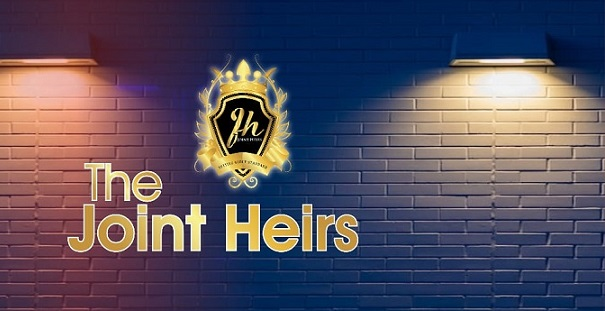
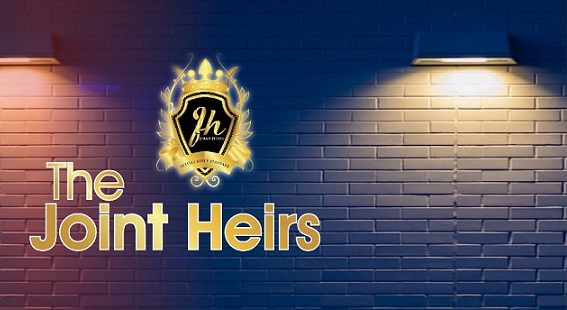
mixlr

diff --git a/jhindex.css b/jhindex.css
@@ -83,7 +83,7 @@ header > a > span {
   position: absolute;
   /* bottom: 50px; */
   top: 80vh;
-  width: fit-content;
+  width: 100vh;
   margin-left: 35%;
   font-family: "Ubuntu", sans-serif;
   color: goldenrod;
@@ -137,7 +137,6 @@ header > a > span {
   }
   .home {
     background: url(Images/bg-img2.jpeg);
-    background-size: cover;
     height: 300px;
   }
 }
